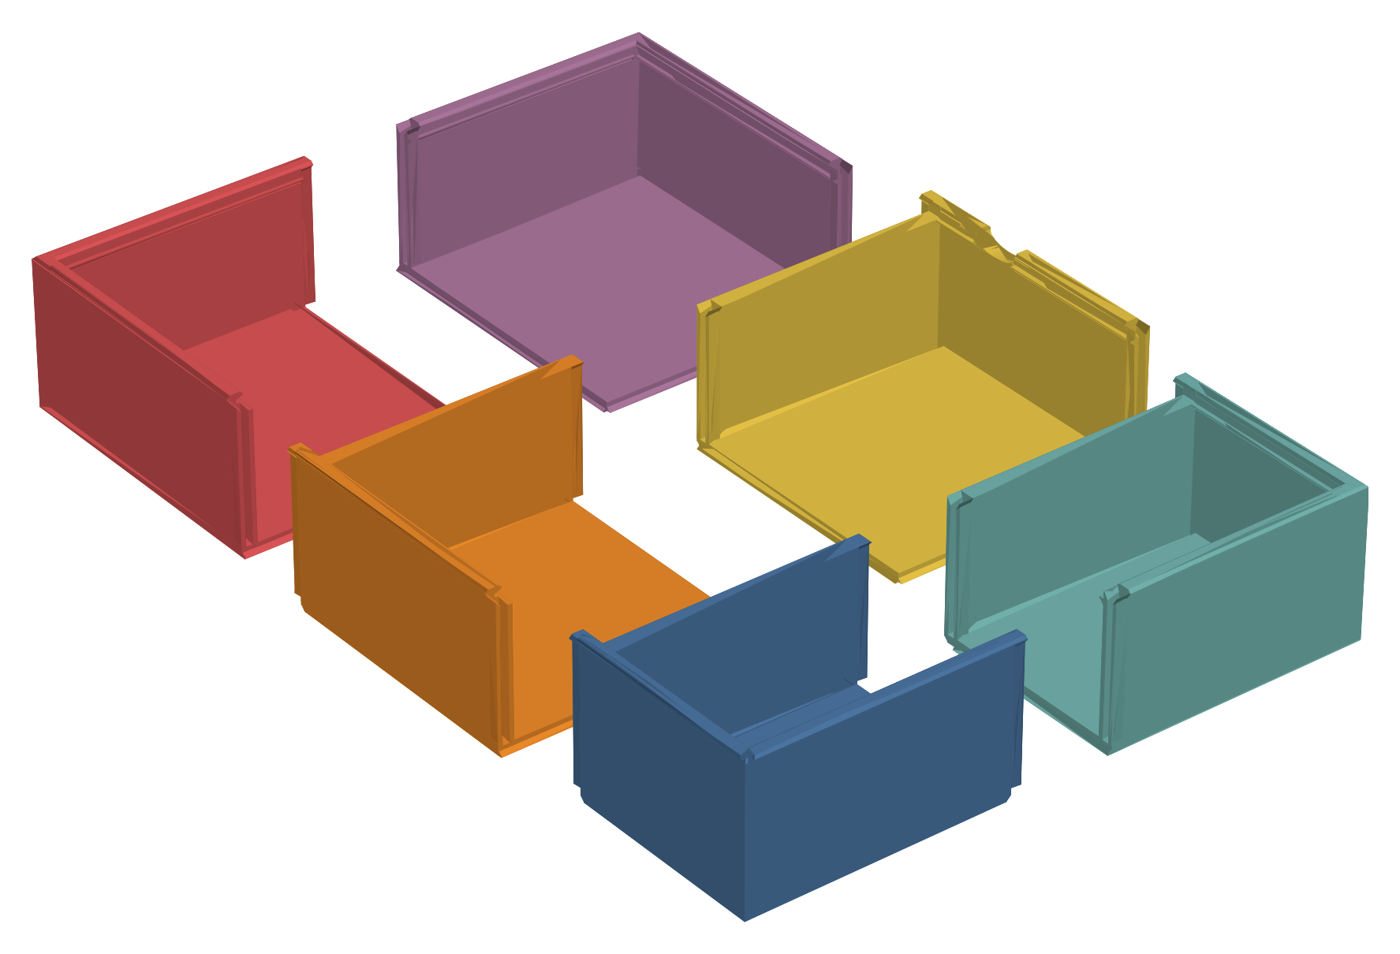
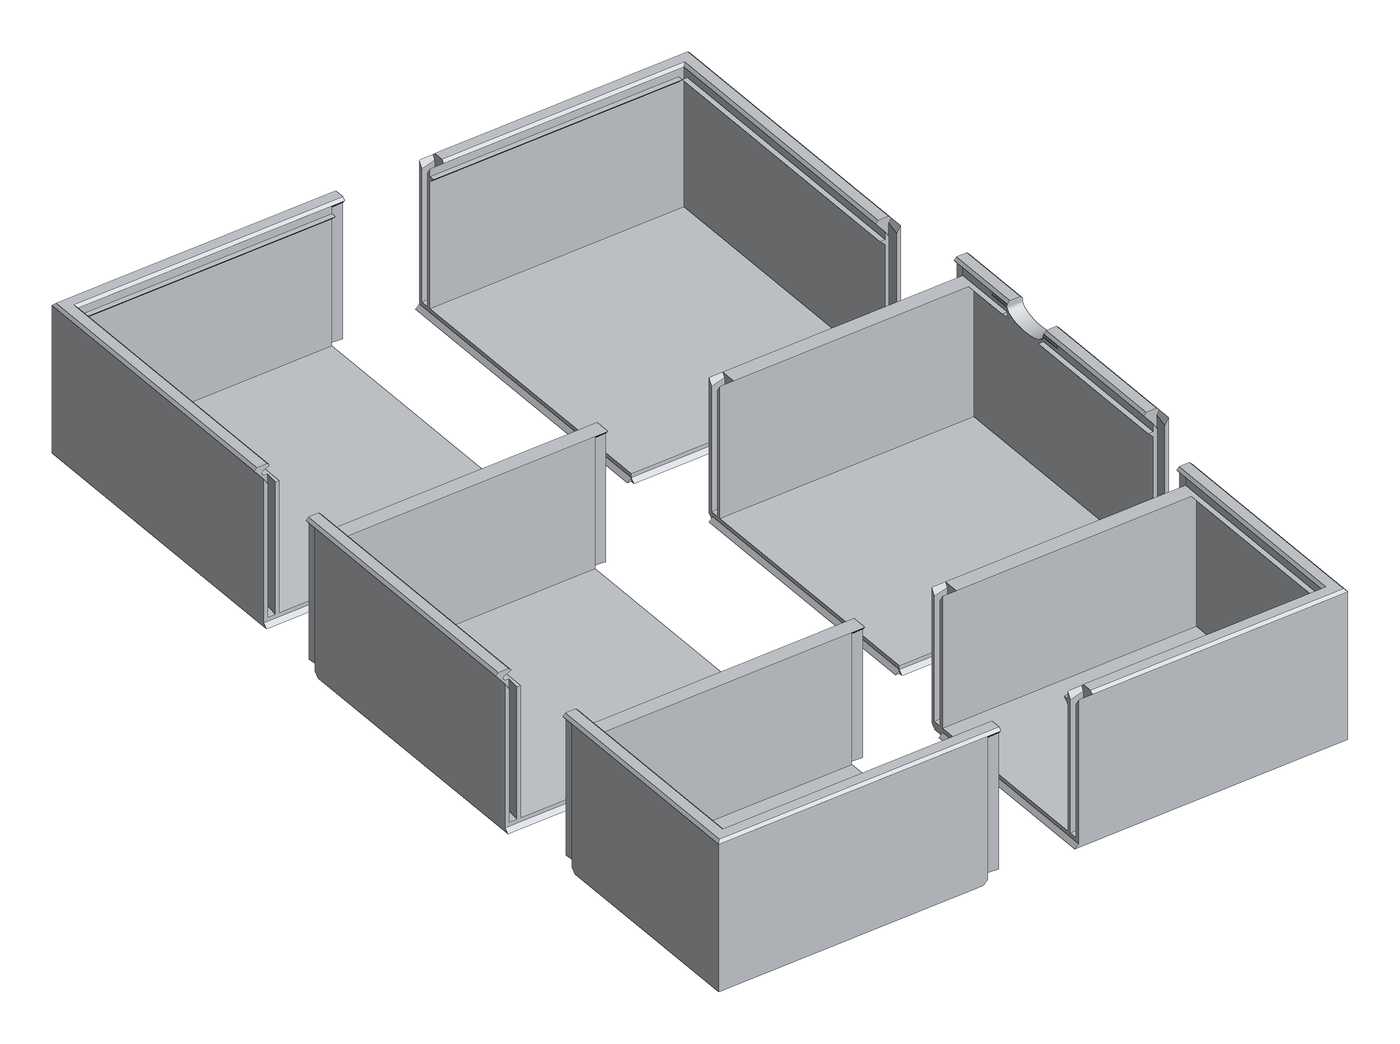
Add close-up renders of each design change and expand the build log
Grey renders of the four saved versions at the spots that changed:
the rim seam (dovetail outline, then a cap), the hinge wall, the base
joint (flat shelf, then a 45° wedge) and the finger notch with its
clips, plus a diagram of why overlapping walls printed hollow. The
build log now opens with why the box was needed and describes the lid
features as designed but untested.

diff --git a/tools/render_stl.py b/tools/render_stl.py
@@ -1,18 +1,21 @@
 #!/usr/bin/env python3
-"""Flat-shaded STL renderer used for the images in docs/img/renders/.
+"""Z-buffer STL renderer used for the images in docs/img/renders/.
 
-Needs numpy, matplotlib and Pillow. Examples (from the repo root):
-  python3 tools/render_stl.py box.png "" stl/                      # assembled box
-  python3 tools/render_stl.py parts.png "" stl/ --explode 35       # six pieces pulled apart
-  python3 tools/render_stl.py pair.png "" stl/body_knife_A.stl stl/body_knife_B.stl --offsetB 25 --elev 38 --azim -50
-The second argument (title) is unused and kept for compatibility.
+Orthographic view, flat shading, depth-based edge lines, one neutral colour by
+default (the parts' print colours were never part of the design).
+Needs numpy and Pillow.
+
+  python3 tools/render_stl.py out.png stl/                                 # whole box
+  python3 tools/render_stl.py out.png stl/ --explode 30                    # pieces pulled apart
+  python3 tools/render_stl.py out.png stl/ --center 104 3 50 --width 40    # close-up of one spot
+  python3 tools/render_stl.py out.png a.stl b.stl --offsetB 104            # parts not in assembled position
+
+--elev / --azim set the view direction in degrees (azimuth measured from +x).
 """
-import sys, struct, glob, os, argparse
+import argparse, glob, os, struct
 import numpy as np
-import matplotlib
-matplotlib.use("Agg")
-import matplotlib.pyplot as plt
-from mpl_toolkits.mplot3d.art3d import Poly3DCollection
+from PIL import Image, ImageFilter
+
 
 def load(f):
     d = open(f, 'rb').read()
@@ -23,58 +26,117 @@ def load(f):
     a = np.frombuffer(d[84:84 + n * 50], dtype=np.dtype([('n', '<3f4'), ('v', '<9f4'), ('a', '<u2')]))
     return a['v'].reshape(-1, 3, 3).astype(float)
 
-COL = {'knife_A': '#4e79a7', 'knife_B': '#76b7b2', 'fork_A': '#f28e2b', 'fork_B': '#edc948',
-       'spoon_A': '#e15759', 'spoon_B': '#b07aa1'}
 
-ap = argparse.ArgumentParser()
-ap.add_argument('out'); ap.add_argument('title')
-ap.add_argument('files', nargs='+')
-ap.add_argument('--explode', type=float, default=0)
-ap.add_argument('--elev', type=float, default=32); ap.add_argument('--azim', type=float, default=-128)
-ap.add_argument('--mono', action='store_true')
-ap.add_argument('--zoom', type=float, nargs=6, default=None, help='x0 x1 y0 y1 z0 z1 crop')
-ap.add_argument('--size', type=float, nargs=2, default=[12, 8])
-ap.add_argument('--offsetB', type=float, default=0, help='shift *_B parts in +x (for STLs not in assembled coords)')
-a = ap.parse_args()
+def main():
+    ap = argparse.ArgumentParser()
+    ap.add_argument('out')
+    ap.add_argument('files', nargs='+')
+    ap.add_argument('--elev', type=float, default=35)
+    ap.add_argument('--azim', type=float, default=-125)
+    ap.add_argument('--center', type=float, nargs=3)
+    ap.add_argument('--width', type=float, help='visible width in mm (close-up)')
+    ap.add_argument('--px', type=int, default=1400, help='output width in pixels')
+    ap.add_argument('--aspect', type=float, default=0.75, help='height / width for close-ups')
+    ap.add_argument('--explode', type=float, default=0, help='percent to push pieces apart')
+    ap.add_argument('--offsetB', type=float, default=0, help='shift *_B parts in +x')
+    ap.add_argument('--color', default='#c9ccd1')
+    ap.add_argument('--bg', default='#ffffff')
+    a = ap.parse_args()
 
-fs = []
-for p in a.files:
-    fs += sorted(glob.glob(os.path.join(p, 'body_*.stl'))) if os.path.isdir(p) else [p]
-
-fig = plt.figure(figsize=a.size, dpi=220)
-ax = fig.add_subplot(111, projection='3d')
-light = np.array([0.4, -0.6, 0.9]); light /= np.linalg.norm(light)
-allp = []
-for f in fs:
-    key = os.path.basename(f)[5:-4] if os.path.basename(f).startswith('body_') else 'x'
-    t = load(f)
-    if a.offsetB and key.endswith('_B'): t = t + np.array([a.offsetB, 0, 0])
+    fs = []
+    for p in a.files:
+        fs += sorted(glob.glob(os.path.join(p, 'body_*.stl'))) if os.path.isdir(p) else [p]
+    tris = []
+    for f in fs:
+        t = load(f)
+        if a.offsetB and os.path.basename(f).endswith('_B.stl'):
+            t = t + [a.offsetB, 0, 0]
+        tris.append(t)
     if a.explode:
-        c = t.reshape(-1, 3).mean(0); c[2] = 0
-        cx = np.array([104.0, 151.5, 0])
-        t = t + (c - cx) * a.explode / 100.0
-    if a.zoom:
-        x0, x1, y0, y1, z0, z1 = a.zoom
-        cen = t.mean(1)
-        keep = (cen[:, 0] > x0) & (cen[:, 0] < x1) & (cen[:, 1] > y0) & (cen[:, 1] < y1) & (cen[:, 2] > z0) & (cen[:, 2] < z1)
-        t = t[keep]
-        if not len(t): continue
-    n = np.cross(t[:, 1] - t[:, 0], t[:, 2] - t[:, 0])
-    n /= (np.linalg.norm(n, axis=1, keepdims=True) + 1e-12)
-    shade = 0.45 + 0.55 * np.abs(n @ light)
-    base = np.array(matplotlib.colors.to_rgb('#9aa5b1' if a.mono else COL.get(key, '#9aa5b1')))
-    cols = np.clip(base[None, :] * shade[:, None], 0, 1)
-    pc = Poly3DCollection(t, facecolors=cols, edgecolors=cols, linewidths=0.3)
-    ax.add_collection3d(pc)
-    allp.append(t.reshape(-1, 3))
-P = np.vstack(allp); mn, mx = P.min(0), P.max(0)
-ax.set_xlim(mn[0], mx[0]); ax.set_ylim(mn[1], mx[1]); ax.set_zlim(mn[2], mx[2])
-ax.set_box_aspect(tuple(mx - mn), zoom=1.0)
-ax.view_init(elev=a.elev, azim=a.azim)
-ax.set_axis_off()
-plt.subplots_adjust(0, 0, 1, 1)
-fig.savefig(a.out, facecolor='white')
-from PIL import Image, ImageChops
-im = Image.open(a.out).convert('RGB'); b = ImageChops.difference(im, Image.new('RGB', im.size, 'white')).getbbox()
-im.crop((max(b[0]-40,0), max(b[1]-40,0), min(b[2]+40,im.width), min(b[3]+40,im.height))).save(a.out)
-print('wrote', a.out)
+        allc = np.vstack([t.reshape(-1, 3) for t in tris])
+        mid = (allc.min(0) + allc.max(0)) / 2; mid[2] = 0
+        out = []
+        for t in tris:
+            c = t.reshape(-1, 3).mean(0); c[2] = 0
+            out.append(t + (c - mid) * a.explode / 100)
+        tris = out
+    T = np.vstack(tris)
+
+    # camera basis
+    el, az = np.radians(a.elev), np.radians(a.azim)
+    view = -np.array([np.cos(el) * np.cos(az), np.cos(el) * np.sin(az), np.sin(el)])  # direction camera looks
+    right = np.cross(view, [0, 0, 1]); right /= np.linalg.norm(right)
+    up = np.cross(right, view)
+    P = T.reshape(-1, 3)
+    if a.center is not None:
+        c = np.array(a.center); w = a.width; h = w * a.aspect
+    else:
+        u = P @ right; v = P @ up
+        c = None
+        umin, umax, vmin, vmax = u.min(), u.max(), v.min(), v.max()
+        pad = 0.04 * (umax - umin)
+        w = umax - umin + 2 * pad; h = vmax - vmin + 2 * pad
+        cu, cv = (umin + umax) / 2, (vmin + vmax) / 2
+    SS = 2
+    W = a.px * SS; H = int(round(W * h / w))
+    if c is not None:
+        cu, cv = c @ right, c @ up
+    sx = W / w
+    U = (T @ right - cu) * sx + W / 2
+    V = -(T @ up - cv) * sx + H / 2
+    D = T @ view  # larger = farther
+    n = np.cross(T[:, 1] - T[:, 0], T[:, 2] - T[:, 0])
+    n /= np.linalg.norm(n, axis=1, keepdims=True) + 1e-12
+    facing = n @ view
+    n[facing > 0] *= -1  # make all normals face the camera (meshes may have mixed winding)
+    L1 = np.array([0.35, -0.55, 0.75]); L1 /= np.linalg.norm(L1)
+    L2 = -view
+    shade = 0.30 + 0.45 * np.clip(n @ L1, 0, 1) + 0.30 * np.clip(n @ L2, 0, 1)
+
+    zbuf = np.full((H, W), np.inf); ibuf = np.full((H, W), -1, int)
+    for i in range(len(T)):
+        x, y, z = U[i], V[i], D[i]
+        x0, x1 = int(max(np.floor(x.min()), 0)), int(min(np.ceil(x.max()), W - 1))
+        y0, y1 = int(max(np.floor(y.min()), 0)), int(min(np.ceil(y.max()), H - 1))
+        if x0 > x1 or y0 > y1:
+            continue
+        xs, ys = np.meshgrid(np.arange(x0, x1 + 1) + 0.5, np.arange(y0, y1 + 1) + 0.5)
+        den = (y[1] - y[2]) * (x[0] - x[2]) + (x[2] - x[1]) * (y[0] - y[2])
+        if abs(den) < 1e-9:
+            continue
+        w0 = ((y[1] - y[2]) * (xs - x[2]) + (x[2] - x[1]) * (ys - y[2])) / den
+        w1 = ((y[2] - y[0]) * (xs - x[2]) + (x[0] - x[2]) * (ys - y[2])) / den
+        w2 = 1 - w0 - w1
+        m = (w0 >= -1e-6) & (w1 >= -1e-6) & (w2 >= -1e-6)
+        if not m.any():
+            continue
+        zz = w0 * z[0] + w1 * z[1] + w2 * z[2]
+        sub = zbuf[y0:y1 + 1, x0:x1 + 1]
+        upd = m & (zz < sub - 1e-7)
+        sub[upd] = zz[upd]
+        ibuf[y0:y1 + 1, x0:x1 + 1][upd] = i
+
+    base = np.array([int(a.color[k:k + 2], 16) for k in (1, 3, 5)]) / 255
+    bg = np.array([int(a.bg[k:k + 2], 16) for k in (1, 3, 5)]) / 255
+    img = np.tile(bg, (H, W, 1))
+    hit = ibuf >= 0
+    img[hit] = np.clip(base[None, :] * shade[ibuf[hit]][:, None] * 1.15, 0, 1)
+    # edge lines: depth jumps and crease between differently-oriented faces
+    nmap = np.zeros((H, W, 3)); nmap[hit] = n[ibuf[hit]]
+    zf = np.where(hit, zbuf, zbuf[hit].max() + 50 if hit.any() else 0)
+    edge = np.zeros((H, W), bool)
+    tol = 0.6 * (w / 400 if a.center is not None else 1.0)
+    for dy, dx in ((0, 1), (1, 0)):
+        zb = np.roll(zf, (-dy, -dx), (0, 1)); nb = np.roll(nmap, (-dy, -dx), (0, 1))
+        hb = np.roll(hit, (-dy, -dx), (0, 1))
+        e = (hit != hb) | (np.abs(zf - zb) > tol) | (((nmap * nb).sum(2) < 0.95) & hit & hb)
+        edge |= e
+    edge[-1, :] = edge[:, -1] = False
+    img[edge] = img[edge] * 0.35
+    im = Image.fromarray((img * 255).astype(np.uint8)).resize((a.px, int(round(a.px * H / W))), Image.LANCZOS)
+    im.save(a.out, optimize=True)
+    print('wrote', a.out, im.size, len(T), 'triangles')
+
+
+if __name__ == '__main__':
+    main()

diff --git a/docs/BUILD_LOG.md b/docs/BUILD_LOG.md
@@ -1,6 +1,6 @@
 # Build log
 
-How a box for disposable cutlery went from a chat to a six-piece print in daily use, and what that taught. Design dates come from the project files' timestamps (US Pacific time); later dates come from the photos. The close-up photos of test pieces were taken afterwards, of the leftover prints, and are placed where those prints belong in the story.
+How a box for disposable cutlery went from a chat to a six-piece print in daily use, and what that taught. Design dates come from the project files' timestamps (US Pacific time; the design notes in the archive are dated in UTC, so some say a day later). Later dates come from the photos. The close-up photos of test pieces were taken afterwards, of the leftover prints, and are placed where those prints belong in the story.
 
 [← back to README](../README.md)
 
@@ -10,9 +10,9 @@ How a box for disposable cutlery went from a chat to a six-piece print in daily 
 
 ## Why
 
-Disposable cutlery needed one place on the counter, with knives, forks and spoons kept apart. My son has a small 3D printer, so the box could be printed rather than bought.
+We use disposable cutlery from time to time, and it never had a good home. It comes in cardboard boxes that fall apart, or thin plastic boxes that crack into sharp pieces, and neither can be washed. Over the years I looked on Amazon and found organizers for real cutlery, but they hold too few pieces, don't lock or open too easily, and aren't made for a pile of disposable cutlery. My own fixes, a box with dividers made from plastic offcuts and tape, were flimsy and not very hygienic.
 
-It was also an experiment. In June 2026 I wanted to see how far plain Claude, used in ordinary chat with no add-ons, could take a physical design from idea to printed part. I used no text-to-CAD tools, no CAD plugins and no special workflow. At the time I didn't know that text-to-CAD tools existed.
+I always thought this should exist, but never had the time to design it in CAD. My son has a small 3D printer, and in June 2026 I wanted to see how fast I could design and iterate on one with plain Claude, used in ordinary chat: no text-to-CAD tools, no CAD plugins and no special workflow. At the time I didn't know text-to-CAD tools existed. It turned out to be fast, fun, and it solved the problem.
 
 ## The plan (June 19)
 
@@ -42,6 +42,8 @@ Rather than print a whole piece, the first tests were short slices of a piece: e
 
 **Hollow corners.** The corners where the walls meet came out empty, even though they looked solid on screen. The script built each wall as a separate solid, overlapping at the corners, and left it to the slicer to merge them. This slicer treats a region covered twice as *outside*, so every overlap printed as a hole. The fix was walls that meet edge to edge instead of overlapping.
 
+![Two ways to build a corner: on screen they look the same, but only one prints solid](img/hollow-corner-explained.png)
+
 **Too narrow.** The first column widths were too tight: only two knives fit across, not three. The compartments were re-derived from the measurements in the table above.
 
 > **Lesson:** "looks solid on screen" is not "slices solid." And measure the real objects before sizing anything.
@@ -55,23 +57,37 @@ The Python script couldn't keep the rim's chamfer (the small bevel along the top
 
 ![Dovetail keys on two of the pieces](img/2026-06-21_dovetail-keys.png)
 
-**A defect every check missed.** Two pieces showed a ghost face that another program turned into a solid block halfway up the wall. All the standard mesh checks passed. The cause was a cut plane lying exactly on an existing wall face, which leaves behind a sheet of zero thickness. Moving those cut planes 0.02 mm into open space fixed it.
+**A defect every check missed.** Two pieces showed a ghost face that Tinkercad turned into a solid block halfway up the wall. All the standard mesh checks passed. The cause was a cut plane lying exactly on an existing wall face, which leaves behind a sheet of zero thickness. Moving those cut planes 0.02 mm into open space fixed it.
 
 ![The zero-thickness face before and after the fix](img/2026-06-21_zero-thickness-flap.png)
+*Left: the paper-thin face, in red. Right: gone after moving the cut 0.02 mm.*
 
-**Straight edges on top.** The trapezoid of each dovetail showed on the top of the rim. Now the male piece carries a cap the full width of the wall and the female piece has a matching recess, so the rim shows one straight seam and the joint sits underneath. The cap's underside slopes at 50° so it prints without support.
+**Straight edges on top.** In the first versions the dovetail ran all the way up, so its trapezoid showed on the top of the rim. Now the male piece carries a cap the full width of the wall and the female piece has a matching recess, so the rim shows one straight seam and the joint sits underneath. The cap's underside slopes at 50° so it prints without support.
+
+![Close-up of the same rim seam in four versions: the dovetail outline shows on top in the first, then a single straight line](img/renders/seam-top-progression.png)
+*The same spot on the rim, where two pieces meet over a divider. In the Python version the dovetail's outline shows on top. From v4 the cap hides it under one straight line. In the later versions with lid features (v24 shown) the divider is also lowered, as described below.*
 
 ![Cross-section of the capped joint](img/2026-06-21_hidden-cap-section.png)
 
-The overall shape barely changed from here to the final version; nearly all the later work was at the joints:
+The overall shape barely changed from here to the final version; nearly all the later work was at the joints and the rim. (All renders here are plain grey, as the model looked while designing. Colour only arrived with the filament.)
 
 ![Renders of the saved versions from June 20 to June 24](img/renders/progression.png)
 
 ## Trial pieces (June 22)
 
-The top of the box gained features for a flat clear lid: a hinge groove along one long wall, a lipped support rail, two light clips, and a finger notch to lift it.
+Versions 5 to 23 added features for a flat clear lid, all cut into the top of the walls. No lid has been made yet (see [Living with it](#living-with-it-july-onward)), so these are designed but untested:
 
-![The finger notch in the clip wall](../photos/process/IMG_8119.jpg)
+- **A support rail** along three inside walls for the lid to rest on, so the lid sits 2 mm below the rim. Its underside slopes at 45° so it prints without support.
+- **A hinge groove** along one long wall: a half-round channel the lid's rounded edge sits in, set back behind a short slot so the rim covers it and should hold the lid when it's raised. A half circle alone wouldn't let the lid swing, so above it the groove opens up at an angle. That angle is meant to let the lid tilt up on its hinge and also lift right out, so the box can be left open on a table for people to help themselves.
+- **Two light clips** on the opposite wall, with a lip of only 0.3 mm, so the lid should click shut but open easily.
+- **A finger notch** between the clips (added in v20), where your thumb goes to lift the lid, with the rail cut away there so a fingertip can get under the edge.
+
+![The hinge wall in four versions: a plain wall, then the groove with its round channel and angled opening](img/renders/hinge-wall-progression.png)
+*The hinge wall, seen at the edge where the piece was cut. From v24 the groove shows: the round channel the lid edge sits in, and the angled opening above it.*
+
+| The finger notch and the two clips, rendered | The same notch, printed |
+|---|---|
+| ![Render of the finger notch with a clip on each side and the rail below](img/renders/notch-and-clips_v25.png) | ![The finger notch in the printed clip wall](../photos/process/IMG_8119.jpg) |
 
 Then came the first trial pieces, with four problems. The annotations are from that day.
 
@@ -88,9 +104,9 @@ Then came the first trial pieces, with four problems. The annotations are from t
 | **Support stuck in a base joint** | **Dangling tab at a seam corner** |
 | ![Support residue along a base joint, circled](img/2026-06-22_trial-lap-support.jpg) | ![Thin tab at the corner where two seams cross, circled](img/2026-06-22_trial-corner-tab.jpg) |
 
-**Warping.** Some pieces also lifted at the corners, the bottom curling up off the bed:
+**Warping.** Some pieces also lifted at the corners while printing, so the bottom edge no longer lies flat:
 
-![A test piece with a corner curled upward](../photos/process/IMG_8082.jpg)
+![A test piece held edge-on: its bottom edge curls up at the corner instead of lying flat](../photos/process/IMG_8082.jpg)
 
 ## Fitting the dovetails (June 23–24)
 
@@ -108,10 +124,14 @@ Then two full-height tongues with the real top cap checked the fit over the whol
 
 ![Two full-height test tongues](../photos/process/IMG_8099.jpg)
 
-The final model (v25, June 24) uses 0.15 mm per side.
+The final model (v25, June 24) uses 0.15 mm per side. Coupon files: [`stl/test-coupons/`](../stl/test-coupons/). Generators: [`tools/`](../tools/).
+
+The same round of prints showed that every flat base joint still trapped support material, so v25 also turned all of them into 45° wedges:
+
+![The base joint in four versions: none, a flat shelf, then a 45-degree wedge](img/renders/base-joint-progression.png)
+*Two pieces pulled apart at the base. The Python version had no overlap at the base; v4 and v24 had a flat shelf that needed support under it; v25 has a 45° wedge that prints on its own.*
 
 ![The final model's six pieces, pulled apart](img/renders/2026-06-24_v25-six-pieces.png)
- Coupon files: [`stl/test-coupons/`](../stl/test-coupons/). Generators: [`tools/`](../tools/).
 
 > **Lesson:** the printer's precision, and its repeatability from one print to the next, is a design input. A fit that works on one print may not on the next, even at identical settings. Test on cheap coupons, change one side of a joint at a time, and plan for some hand fitting.
 
@@ -138,6 +158,8 @@ Even seated, the friction fit wasn't enough for a box that gets picked up and mo
 **Re-assigning the compartments.** With stacking, compartment width matters differently. The widest compartments hold the most, so the types moved: spoons, which we use least, went into the narrowest compartment (designed for knives). Forks are in the middle and knives in the widest.
 
 ![The box in use, with cutlery nested in stacks](../photos/finished-loaded.jpg)
+
+**A second one.** My brother had been looking for the same thing, so I printed one for him too.
 
 Open question: forks are what we use most, so they may belong in the widest compartment, with knives in the middle. Whether that's better also depends on how easy each type is to grab out of its compartment.
 

diff --git a/README.md b/README.md
@@ -4,7 +4,7 @@
 
 A three-compartment box for disposable knives, forks and spoons, designed in OpenSCAD with Claude and printed in six pieces on a small hobby printer.
 
-The box is 303 × 208 × 58 mm, too big for the 120 mm printer it was made on, so it prints as six pieces that slide together on dovetails hidden inside the walls. From outside it reads as one box with straight seams and a chamfered rim that's comfortable to grab. Six days of design, several rounds of test prints, a Dremel and some glue got it from idea to the kitchen counter, where it's been in use since July 2026.
+Disposable cutlery usually lives in cardboard boxes that fall apart or plastic ones that crack into sharp pieces, none of them can be washed, and the organizers I found for real cutlery don't hold enough. The box is 303 × 208 × 58 mm, too big for the 120 mm printer it was made on, so it prints as six pieces that slide together on dovetails hidden inside the walls. From outside it reads as one box with straight seams and a chamfered rim that's comfortable to grab. Six days of design, several rounds of test prints, a Dremel and some glue got it from idea to the kitchen counter, where it's been in use since July 2026. I printed a second one for my brother, who'd been looking for one.
 
 ![The finished box on the counter, loaded with spoons, forks and knives](photos/finished-loaded.jpg)
 
@@ -35,14 +35,15 @@ What the process taught: a model that looks right on screen is not yet a part th
 - **2026-06-19:** First model: three compartments, split into a 3 × 2 grid of pieces to fit the printer.
 - **2026-06-20:** First test prints. Corners came out hollow and the compartments were too narrow. Re-measured and resized.
 - **2026-06-21:** Rebuilt in OpenSCAD, which can cut solids cleanly. Joints hidden under a capped, chamfered rim.
-- **2026-06-22:** Lid features added (hinge groove, lipped rail, clips, finger notch). Trial pieces showed elephant's foot, warped corners, flimsy sockets and trapped support.
+- **2026-06-22:** Lid features added (hinge groove, support rail, clips, finger notch). Trial pieces showed elephant's foot, warped corners, flimsy sockets and trapped support.
 - **2026-06-23:** Dovetail fit tuned with graduated test coupons and full-height test tongues. All base joints changed to 45° wedges.
 - **2026-06-24:** Final model (v25). Six STLs exported.
 - **By 2026-06-30:** All six pieces printed, high spots Dremelled down, box assembled and glued.
 - **2026-07-05:** In daily use, with the cutlery nested in stacks instead of columns.
 
 ![Renders of the model on June 20, 21, 22 and 24: the overall shape barely changes](docs/img/renders/progression.png)
-*Six days of versions, rendered from the saved files. The shape barely changed; the iteration happened at the joints, a fraction of a millimetre at a time.*
+![Close-up of one rim seam in the same four versions](docs/img/renders/seam-top-progression.png)
+*Six days of versions, rendered from the saved files. The overall shape barely changed; the work happened at the joints and the rim. Close up (second row), the dovetail's outline on top of the rim gives way to a cap and one straight seam line.*
 
 | Joint test coupons, one to four dots | A longer knife from another brand: it touches both end walls |
 |---|---|

diff --git a/tools/README.md b/tools/README.md
@@ -6,7 +6,7 @@ The coupon generators are plain Python 3 with no dependencies; each writes a bin
 |---|---|---|
 | `make_dovetail_rig.py` | `dovetail_fit_test_rig.stl` | Four 20 mm male dovetail coupons at 0.20 / 0.15 / 0.10 / 0.05 mm clearance per side, marked with 1–4 dots. Slide each into a printed female socket and keep the tightest one that still slides by hand. |
 | `make_male_test.py` | `dovetail_male_test.stl` | Two full-height (55 mm) male tongues with the real top cap, at 0.15 mm per side: one at the standard depth (1 dot) and one 1 mm deeper (2 dots). |
-| `render_stl.py` | PNG | The flat-shaded renderer used for the images in `docs/img/renders/`. Needs numpy, matplotlib and Pillow; see the examples at the top of the file. |
+| `render_stl.py` | PNG | The renderer used for the images in `docs/img/renders/`: grey, flat-shaded, with close-ups of any spot. Needs numpy and Pillow; examples at the top of the file. |
 
 The two coupon generators are sized against the final female socket in `scad/cutlery_box.scad` (half-widths 1.5 mm at the neck and 2.0 mm at the flare). If you change the dovetail parameters there, change them here too.
 
